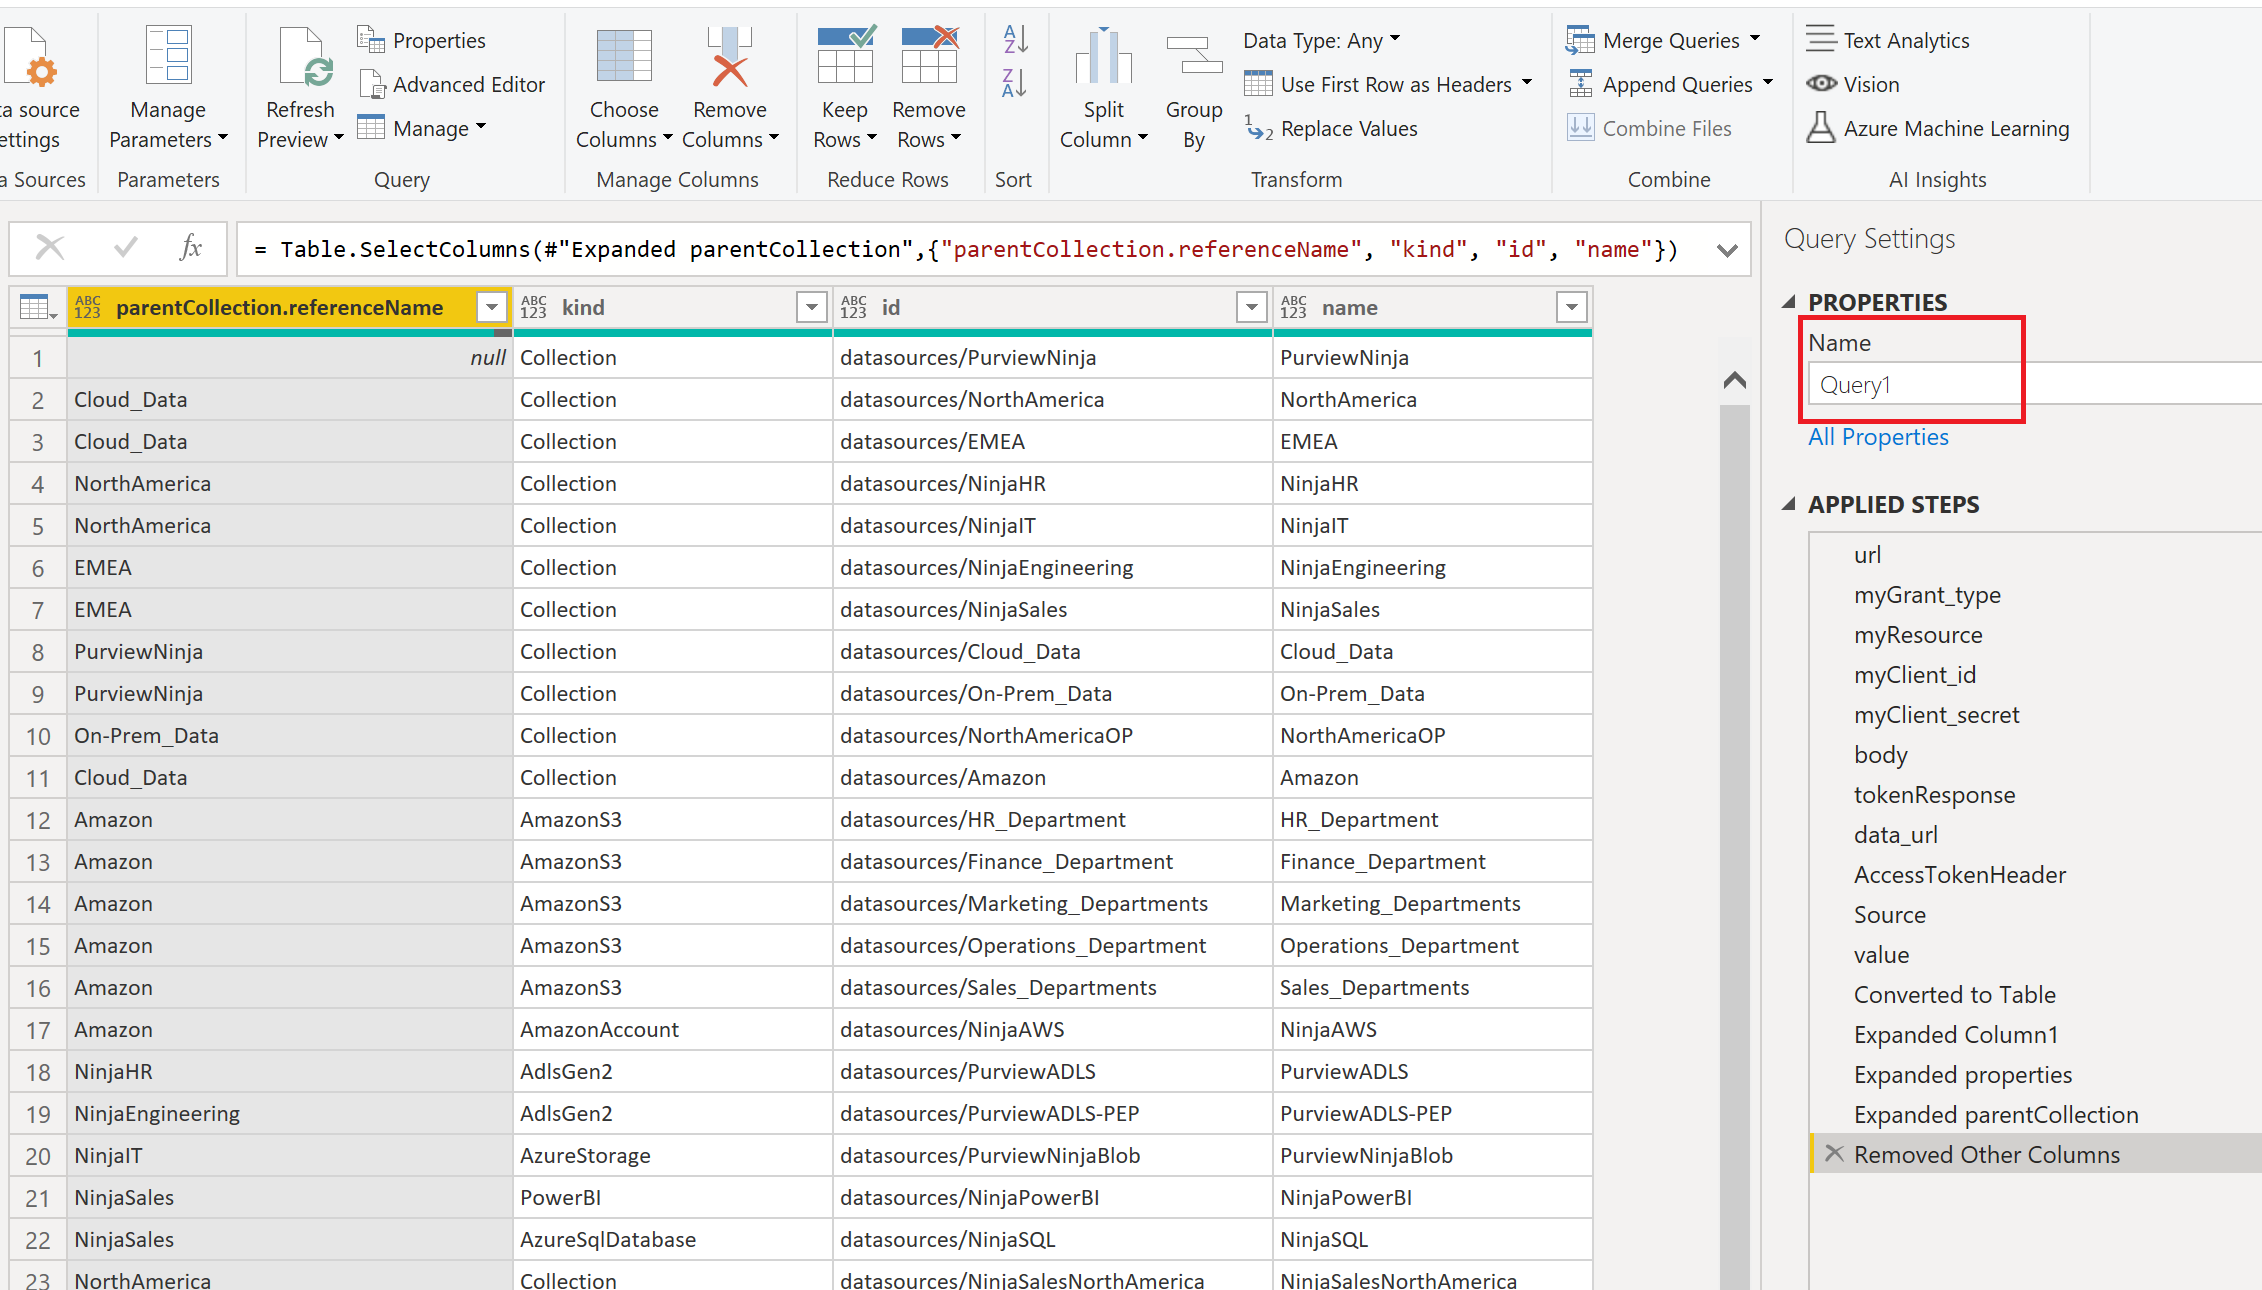
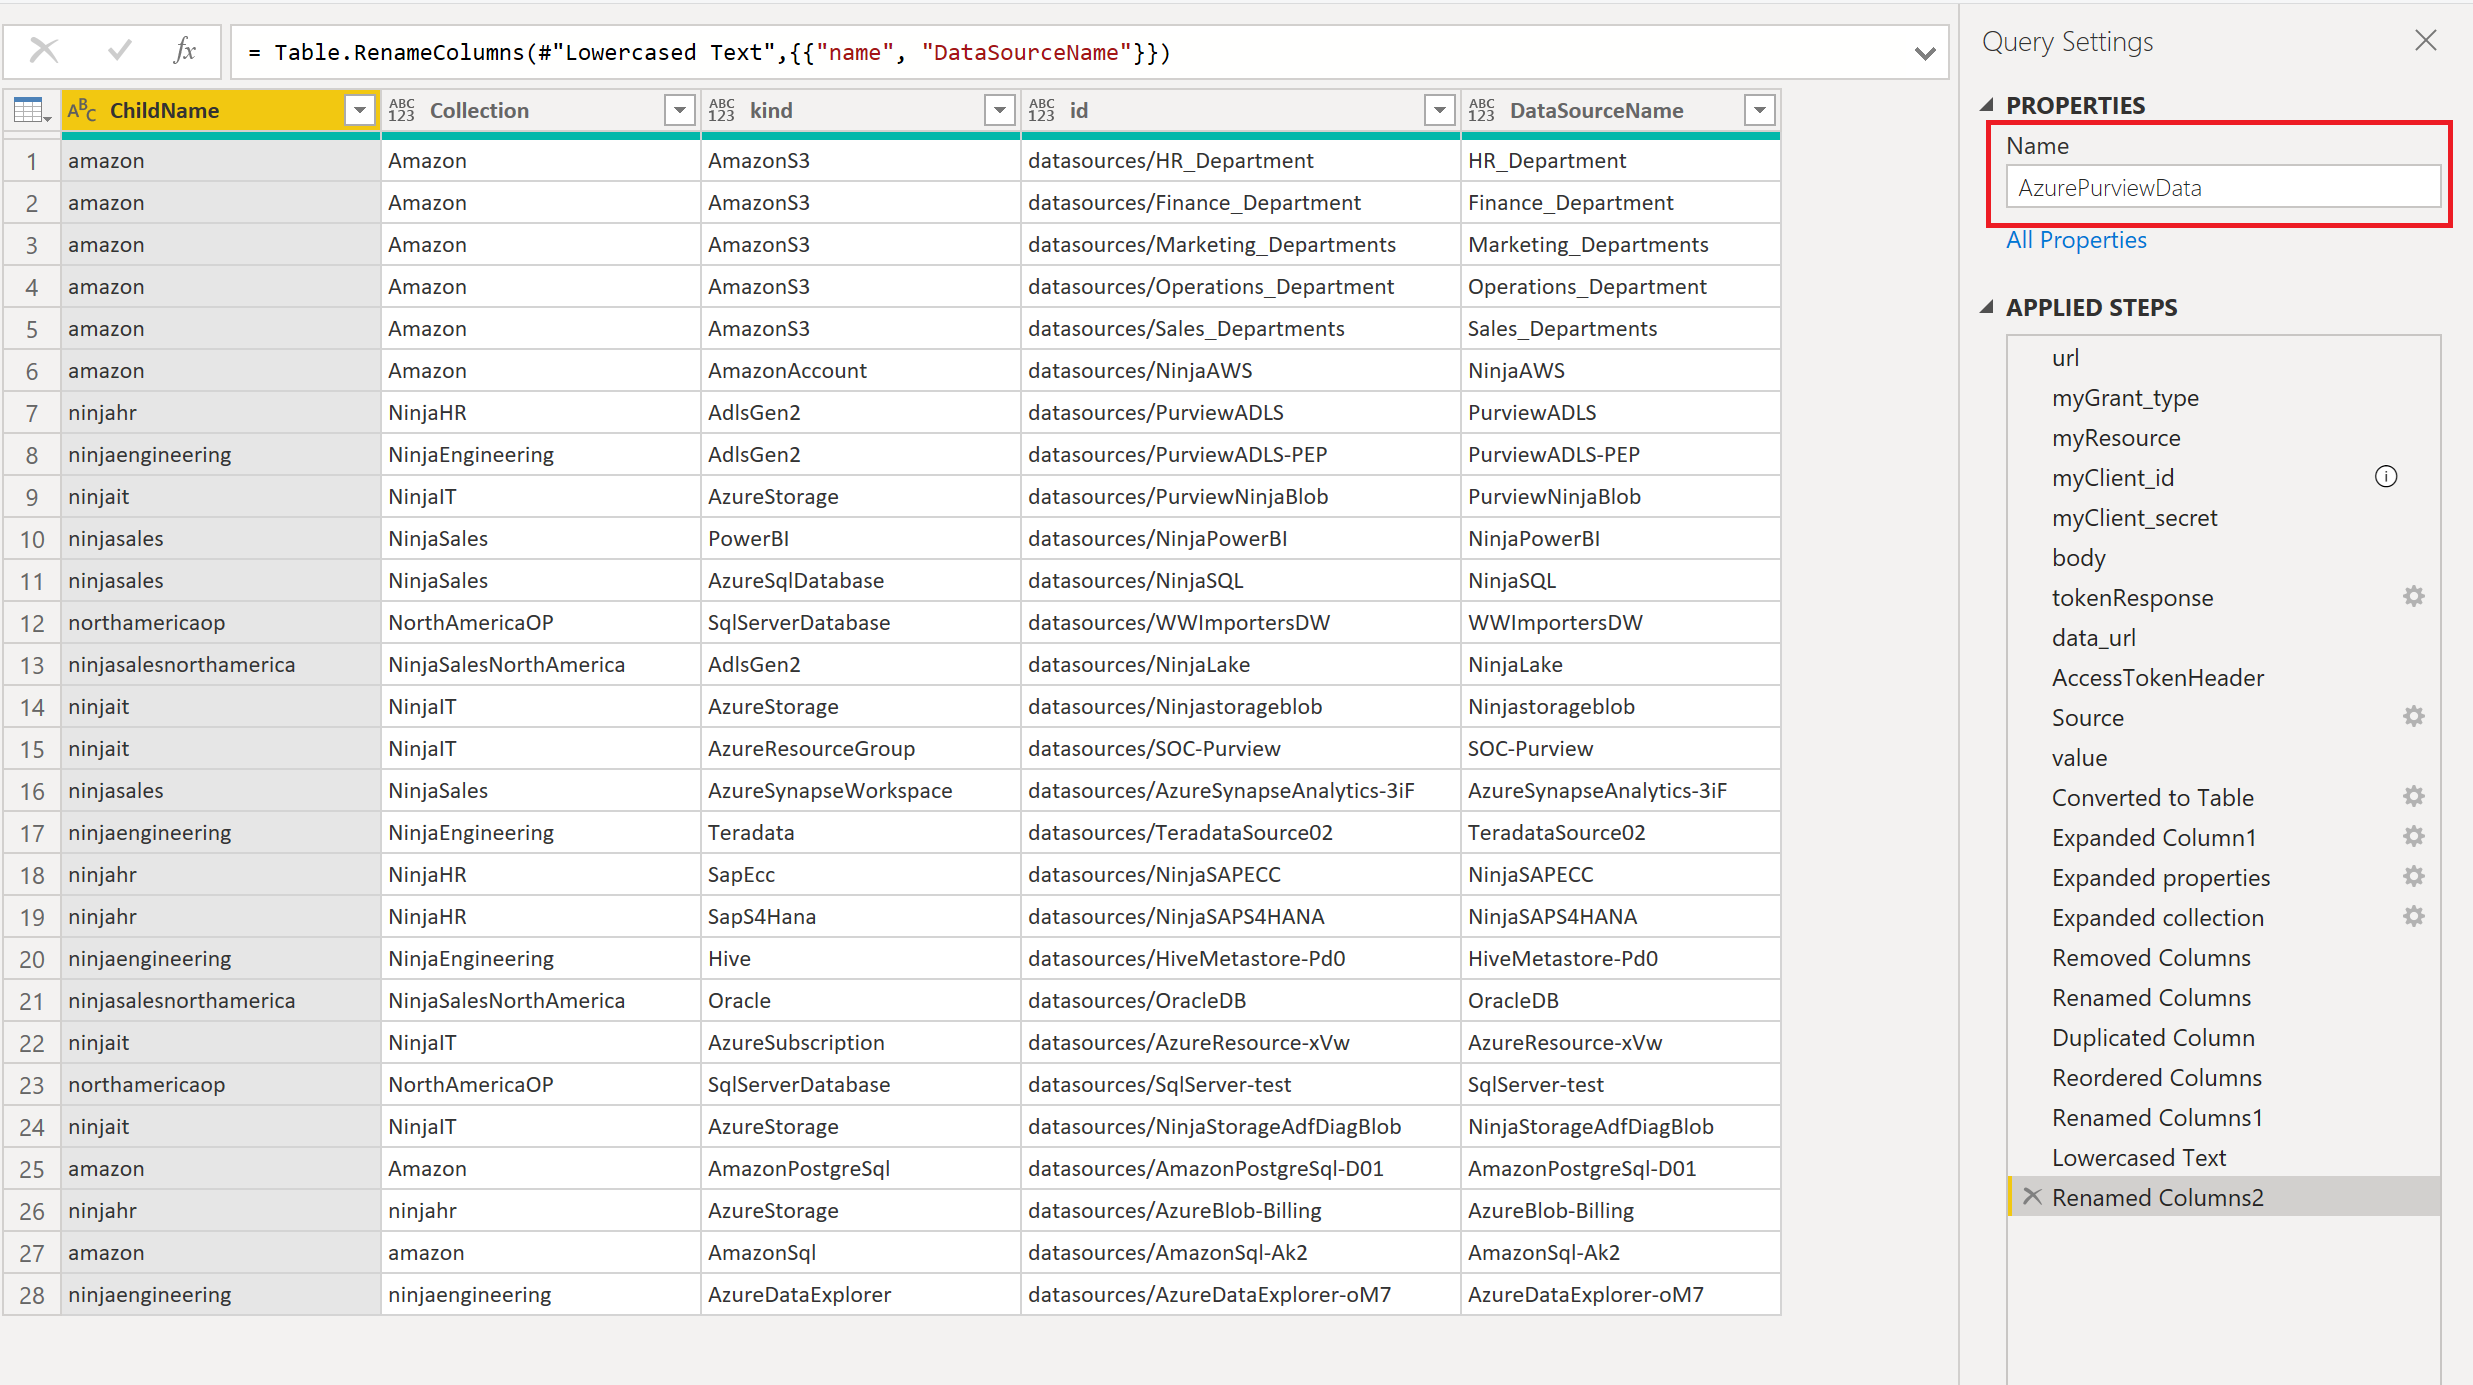
v2

diff --git a/README.md b/README.md
@@ -155,11 +155,17 @@ let
     value = Source[value],
     #"Converted to Table" = Table.FromList(value, Splitter.SplitByNothing(), null, null, ExtraValues.Error),
     #"Expanded Column1" = Table.ExpandRecordColumn(#"Converted to Table", "Column1", {"properties", "kind", "id", "name"}, {"properties", "kind", "id", "name"}),
-    #"Expanded properties" = Table.ExpandRecordColumn(#"Expanded Column1", "properties", {"createdAt", "lastModifiedAt", "parentCollection", "collection", "serviceUrl", "roleARN", "awsAccountId", "endpoint", "resourceGroup", "subscriptionId", "location", "resourceName", "tenant", "serverEndpoint", "dedicatedSqlEndpoint", "serverlessSqlEndpoint", "host", "applicationServer", "systemNumber", "clusterUrl", "port", "service"}, {"createdAt", "lastModifiedAt", "parentCollection", "collection", "serviceUrl", "roleARN", "awsAccountId", "endpoint", "resourceGroup", "subscriptionId", "location", "resourceName", "tenant", "serverEndpoint", "dedicatedSqlEndpoint", "serverlessSqlEndpoint", "host", "applicationServer", "systemNumber", "clusterUrl", "port", "service"}),
-    #"Expanded parentCollection" = Table.ExpandRecordColumn(#"Expanded properties", "parentCollection", {"type", "referenceName"}, {"parentCollection.type", "parentCollection.referenceName"}),
-    #"Removed Other Columns" = Table.SelectColumns(#"Expanded parentCollection",{"parentCollection.referenceName", "kind", "id", "name"})
+    #"Expanded properties" = Table.ExpandRecordColumn(#"Expanded Column1", "properties", {"parentCollection", "collection"}, {"parentCollection", "collection"}),
+    #"Expanded collection" = Table.ExpandRecordColumn(#"Expanded properties", "collection", {"referenceName"}, {"referenceName"}),
+    #"Removed Columns" = Table.RemoveColumns(#"Expanded collection",{"parentCollection"}),
+    #"Renamed Columns" = Table.RenameColumns(#"Removed Columns",{{"referenceName", "Collection"}}),
+    #"Duplicated Column" = Table.DuplicateColumn(#"Renamed Columns", "Collection", "Collection - Copy"),
+    #"Reordered Columns" = Table.ReorderColumns(#"Duplicated Column",{"Collection - Copy", "Collection", "kind", "id", "name"}),
+    #"Renamed Columns1" = Table.RenameColumns(#"Reordered Columns",{{"Collection - Copy", "ChildName"}}),
+    #"Lowercased Text" = Table.TransformColumns(#"Renamed Columns1",{{"ChildName", Text.Lower, type text}}),
+    #"Renamed Columns2" = Table.RenameColumns(#"Lowercased Text",{{"name", "DataSourceName"}})
 in
-    #"Removed Other Columns"
+    #"Renamed Columns2"
 
 ```
 
@@ -171,28 +177,43 @@ Click the **"Done"** button. You will achieve a result similar to the one below.
 
 ![](Pictures/017.png)
 
-Now that you have the initial query that retrieves the data, we will reference it, so that we can use it as a basis for rebuilding the hierarchy of our organization.
+Repeat the operation above to create a new blank query to get Azure Purview collections.
 
-Right-click the previously created Azure Purview query, and then select **"reference"**
+In the new blank query, paste the following M script.
+This script will call the new collection API and recreate the hierarchy (with the *"fnCreateHiearchy"* function):
 
-![](Pictures/018.png)
-
-Once the reference is made, select the new query and click on **"Advanced Editor"**. You should get something similar to the screenshot below
-
-
-![](Pictures/019.png)
-
- Copy the M script below to rebuild the flowchart hierarchy present in Azure Purview
-
-```Javascript
+```javascript
 let
-    Source = AzurePurviewData,
-    #"Filtered Rows" = Table.SelectRows(Source, each ([kind] = "Collection")),
-    #"Renamed Columns" = Table.RenameColumns(#"Filtered Rows",{{"parentCollection.referenceName", "ParentName"}, {"name", "ChildName"}}),
+    
+    url = "https://login.microsoftonline.com/<YOUR TENANT ID>/oauth2/token",
+    myGrant_type = "client_credentials",
+    myResource = "73c2949e-da2d-457a-9607-fcc665198967",  //It could also be "https://purview.azure.net" 
+    myClient_id = "<YOUR CLIENT ID>",
+    myClient_secret = "<YOUR CLIENT SECRET>",
 
-    ListChild = List.Buffer(#"Renamed Columns"[ChildName]),
-    ListParent = List.Buffer(#"Renamed Columns"[ParentName]),
+    body  = "grant_type=" & myGrant_type & "&resource=" & myResource & "&client_id=" & myClient_id & "&client_secret=" & myClient_secret,
+    tokenResponse = Json.Document(Web.Contents(url,[Headers = [#"Content-Type"="application/x-www-form-urlencoded"], Content =  Text.ToBinary(body) ] )), 
+    
+        
+    
+    data_url = "https://<YOUR AZURE PURVIEW ACCOUNT NAME>.purview.azure.com/account/collections?api-version=2019-11-01-preview",
+    AccessTokenHeader = "Bearer " & tokenResponse[access_token],
 
+    Source = Json.Document(Web.Contents(data_url, [Headers=[Authorization= AccessTokenHeader,#"Content-Type"="application/json"]])),
+    value = Source[value],
+    #"Converted to Table" = Table.FromList(value, Splitter.SplitByNothing(), null, null, ExtraValues.Error),
+    #"Expanded Column1" = Table.ExpandRecordColumn(#"Converted to Table", "Column1", {"name", "friendlyName", "parentCollection", "systemData", "collectionProvisioningState", "description"}, {"Column1.name", "Column1.friendlyName", "Column1.parentCollection", "Column1.systemData", "Column1.collectionProvisioningState", "Column1.description"}),
+    #"Expanded Column1.parentCollection" = Table.ExpandRecordColumn(#"Expanded Column1", "Column1.parentCollection", {"type", "referenceName"}, {"Column1.parentCollection.type", "Column1.parentCollection.referenceName"}),
+    #"Expanded Column1.systemData" = Table.ExpandRecordColumn(#"Expanded Column1.parentCollection", "Column1.systemData", {"createdBy", "createdByType", "createdAt", "lastModifiedByType", "lastModifiedAt", "lastModifiedBy"}, {"Column1.systemData.createdBy", "Column1.systemData.createdByType", "Column1.systemData.createdAt", "Column1.systemData.lastModifiedByType", "Column1.systemData.lastModifiedAt", "Column1.systemData.lastModifiedBy"}),
+    #"Lowercased Text" = Table.TransformColumns(#"Expanded Column1.systemData",{{"Column1.name", Text.Lower, type text}}),
+    #"Removed Columns" = Table.RemoveColumns(#"Lowercased Text",{"Column1.systemData.createdBy", "Column1.systemData.createdByType", "Column1.systemData.createdAt", "Column1.systemData.lastModifiedByType", "Column1.systemData.lastModifiedAt", "Column1.systemData.lastModifiedBy", "Column1.collectionProvisioningState"}),
+    #"Sorted Rows" = Table.Sort(#"Removed Columns",{{"Column1.parentCollection.type", Order.Ascending}}),
+    #"Renamed Columns" = Table.RenameColumns(#"Sorted Rows",{{"Column1.parentCollection.referenceName", "ParentName"}, {"Column1.name", "ChildName"}}),
+    #"Sorted Rows1" = Table.Sort(#"Renamed Columns",{{"ParentName", Order.Ascending}}),
+
+    ListChild= List.Buffer(#"Sorted Rows1"[ChildName]),
+    ListParent= List.Buffer(#"Sorted Rows1"[ParentName]),  
+    
 
     fnCreateHiearchy = (n as text) as text =>
         let 
@@ -201,22 +222,45 @@ let
             ChildName = ListChild{ParentPosition}     
         in 
             if ParentName = null then ListChild{ParentPosition} else @fnCreateHiearchy(ParentName) & "|" & ChildName,
-
-    FinaleTable = Table.AddColumn(#"Renamed Columns", "Collections", each fnCreateHiearchy([ChildName]), type text)
+            FinaleTable = Table.AddColumn(#"Renamed Columns", "Collections", each fnCreateHiearchy([ChildName]), type text),
+    #"Duplicated Column" = Table.DuplicateColumn(FinaleTable, "Collections", "Collections - Copy"),
+    #"Split Column by Delimiter" = Table.SplitColumn(#"Duplicated Column", "Collections - Copy", Splitter.SplitTextByEachDelimiter({"|"}, QuoteStyle.Csv, true), {"Collections - Copy.1", "Collections - Copy.2"}),
+    #"Changed Type" = Table.TransformColumnTypes(#"Split Column by Delimiter",{{"Collections - Copy.1", type text}, {"Collections - Copy.2", type text}}),
+    #"Renamed Columns1" = Table.RenameColumns(#"Changed Type",{{"Collections - Copy.2", "LeafCollection"}}),
+    #"Removed Columns1" = Table.RemoveColumns(#"Renamed Columns1",{"LeafCollection", "Collections - Copy.1"})
 in
-    FinaleTable
+    #"Removed Columns1"
+
 
 ```
 
-You should get something like this:
+You should get something like below. Rename this query.
+
+![](Pictures/018.png)
+
+
+You have now all enought information to create your report. But you can also create a merged query to create only one table for your final users.
+
+Create a third banlk query and paste the following M script:
+
+
+```Javascript
+let
+    Source = AzurePurviewData,
+    #"Merged Queries" = Table.NestedJoin(Source, {"ChildName"}, Collections, {"ChildName"}, "Collections", JoinKind.LeftOuter),
+    #"Expanded Collections" = Table.ExpandTableColumn(#"Merged Queries", "Collections", {"Collections"}, {"Collections.1"}),
+    #"Renamed Columns" = Table.RenameColumns(#"Expanded Collections",{{"Collections.1", "Level"}, {"Collection", "Leaf.Collection"}}),
+    #"Split Column by Delimiter" = Table.SplitColumn(#"Renamed Columns", "Level", Splitter.SplitTextByDelimiter("|", QuoteStyle.Csv), {"Level.1", "Level.2", "Level.3", "Level.4", "Level.5"}),
+    #"Changed Type" = Table.TransformColumnTypes(#"Split Column by Delimiter",{{"Level.1", type text}, {"Level.2", type text}, {"Level.3", type text}, {"Level.4", type text}, {"Level.5", type text}})
+in
+    #"Changed Type"
+
+```
+
+You should get something like below. Rename your query.
 
 ![](Pictures/020.png)
 
-Click the **"Done"** button. You should get the following result. Note the new column **"Collections"** which will represent the Parent-Child relationships of your organization chart.
-
-Consider renaming your query.
-
-![](Pictures/021.png)
 
 Now that you have the basic material, you can continue to develop your report as you see fit. For example, use the feature **"Split Column by delimiter"** to create one column per child of your flowchart, to then use them with the visual **"Decomposition tree"**. 
 
